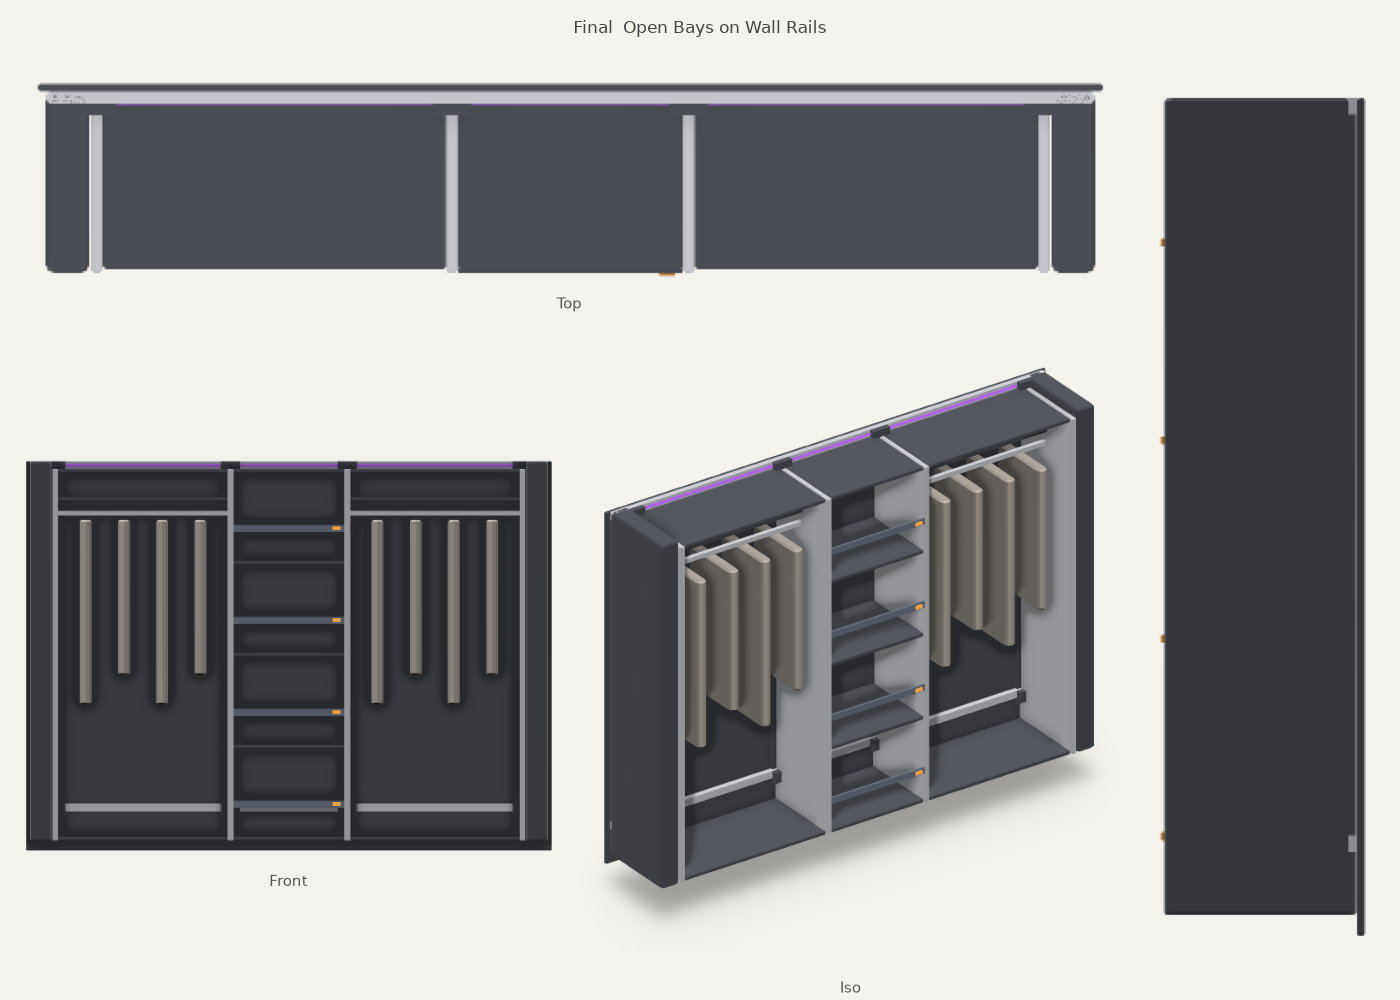
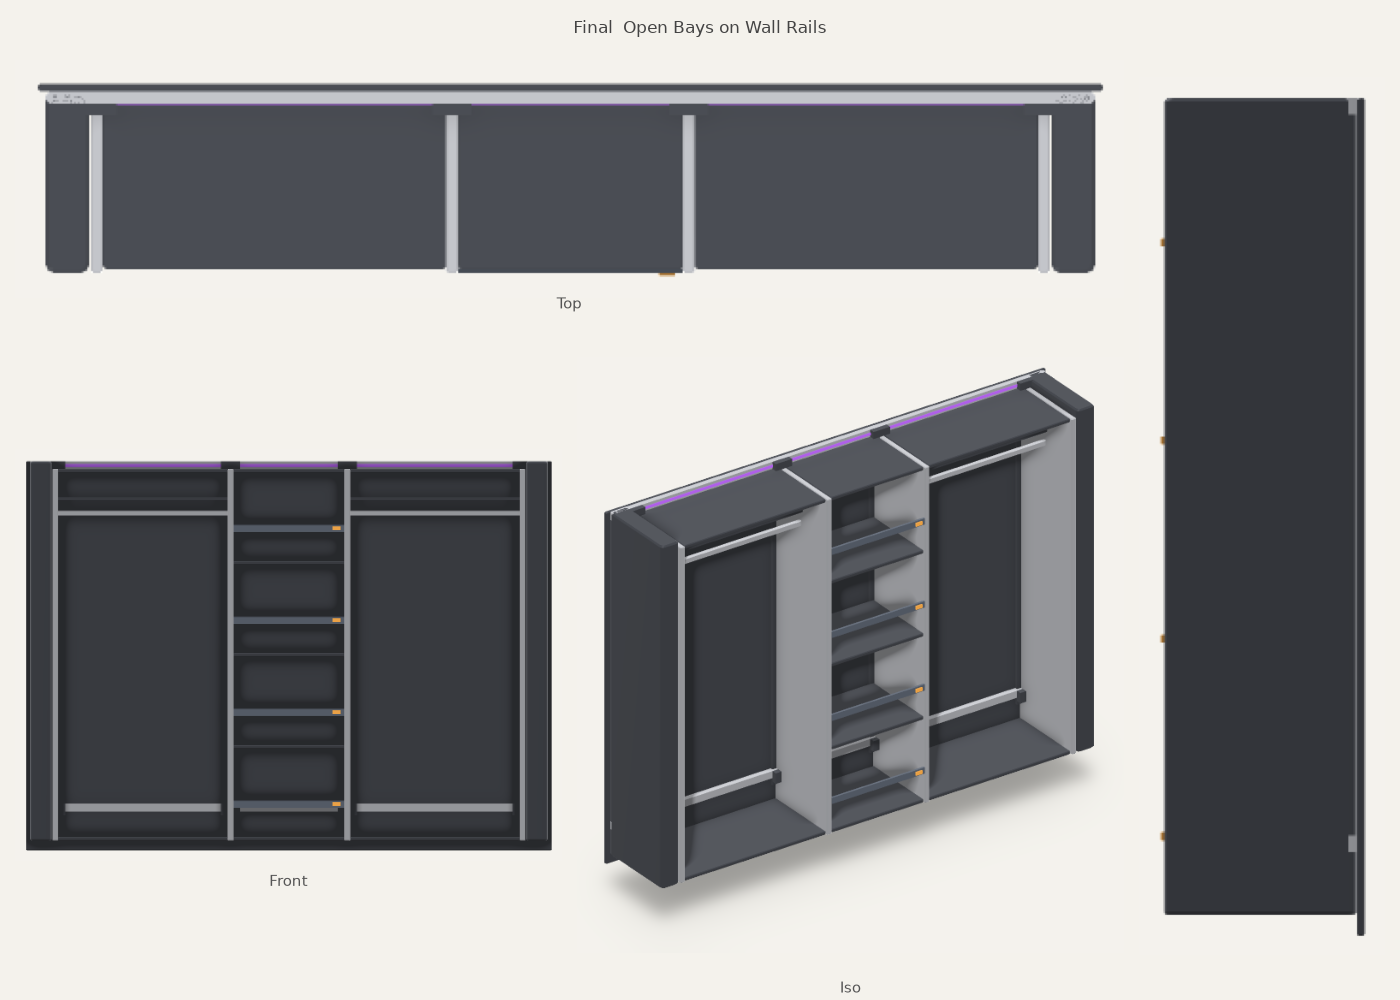
Wardrobe final: remove garments (clothes designed later)

diff --git a/assets/src/wardrobe_generator.py b/assets/src/wardrobe_generator.py
@@ -212,8 +212,7 @@ def final_openbays():
         if t == "H":
             p.add(f"Hanging_Bar_{i + 1}", "alloy", blk(a, b, 1.82, 1.845, -.012, .012, .012, 2))
             p.add(f"Retainer_Bar_{i + 1}", "gunmetal", blk(a, b, 1.9, 1.915, -.02, .02, .005, 1))
-            for k, xx in enumerate(np.linspace(a + .14, b - .14, 4)):
-                p.add("Garments", "warmgrey", bev(.06, .38, 1.0 if k % 2 else .85, 1.8, .03, .01, 2, xx, 0))
+            # no garments: clothes are designed later
         else:
             for y0, y1 in zip(ys[:-1], ys[1:]):          # one strap per compartment, same height
                 sy = y0 + .17

diff --git a/design/assets/wardrobe/README.md b/design/assets/wardrobe/README.md
@@ -19,8 +19,9 @@ A white carcass with a latched three-drawer stack and a cupboard (left), a lit d
 
 **Recommendation:** iter_05. It is the most useful storage mix, it has the bed's clamps and the Sprocket chute, and it stays in the white-composite family. If floor space is tight, iter_01's sliding doors are the pick.
 
-## Final: Open Bays on Wall Rails (2,544 tris)
+## Final: Open Bays on Wall Rails (1,776 tris)
 This combines iter_02's open alloy bays with iter_03's wall-rail mounting, built with `python3 assets/src/wardrobe_generator.py final`. It is exported only to `godot/assets/models/wardrobe_openbays_rails.glb`, and the sheet is `final_openbays_rails_sheet.png`. Overall it is 2.7 W × 0.5 D × 2.1 H m, and the bays hang 0.15 m clear of the floor with no kick.
-- **Layout:** two bay types: 0.9 m hanging (alloy bar plus a gunmetal retainer bar, no straps, four simple garment shapes) and 0.6 m shelves (five evenly spaced gunmetal shelves, one slate strap per compartment at the same height, with an amber buckle latch). Default 2.7 = 0.15 end + 0.9 H + 0.6 S + 0.9 H + 0.15 end. 2.5 = 0.05 slim ends + H S H. 3.0 = 0.05 slim ends + H S S H.
+- **Layout:** two bay types: 0.9 m hanging (alloy bar plus a gunmetal retainer bar, no straps) and 0.6 m shelves (five evenly spaced gunmetal shelves, one slate strap per compartment at the same height, with an amber buckle latch). Default 2.7 = 0.15 end + 0.9 H + 0.6 S + 0.9 H + 0.15 end. 2.5 = 0.05 slim ends + H S H. 3.0 = 0.05 slim ends + H S S H.
 - **Mounting:** a full-length bolted gunmetal wall plate with two alloy rails (a thin violet strip on the top rail). Each bay joint has a chamfered alloy upright, a gunmetal bracket with two bolts and a gunmetal hook clamp on each rail, all aligned. The gunmetal end panels hang at the same height.
+- **No clothes; designed later.** The final has no garment or folded-clothes shapes.
 - **Meshes:** every part is a closed mesh. Shelves, uprights and panels are chamfered, with hard edges over 30°.
